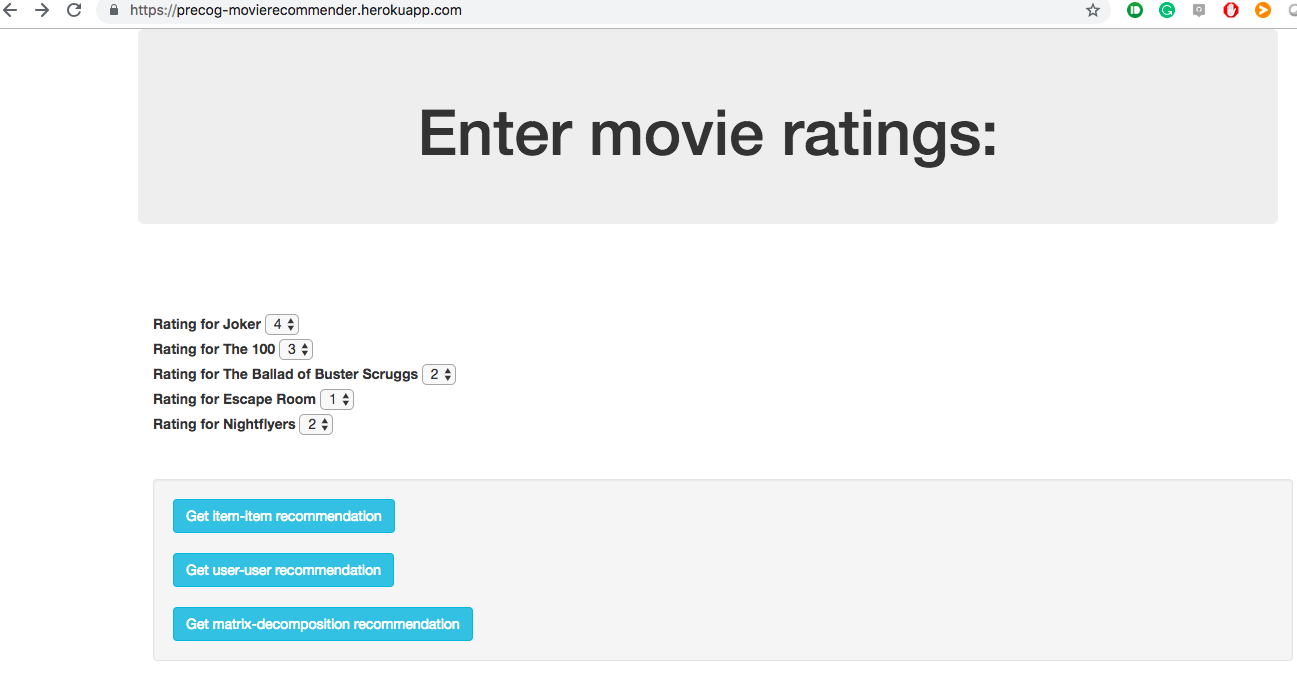
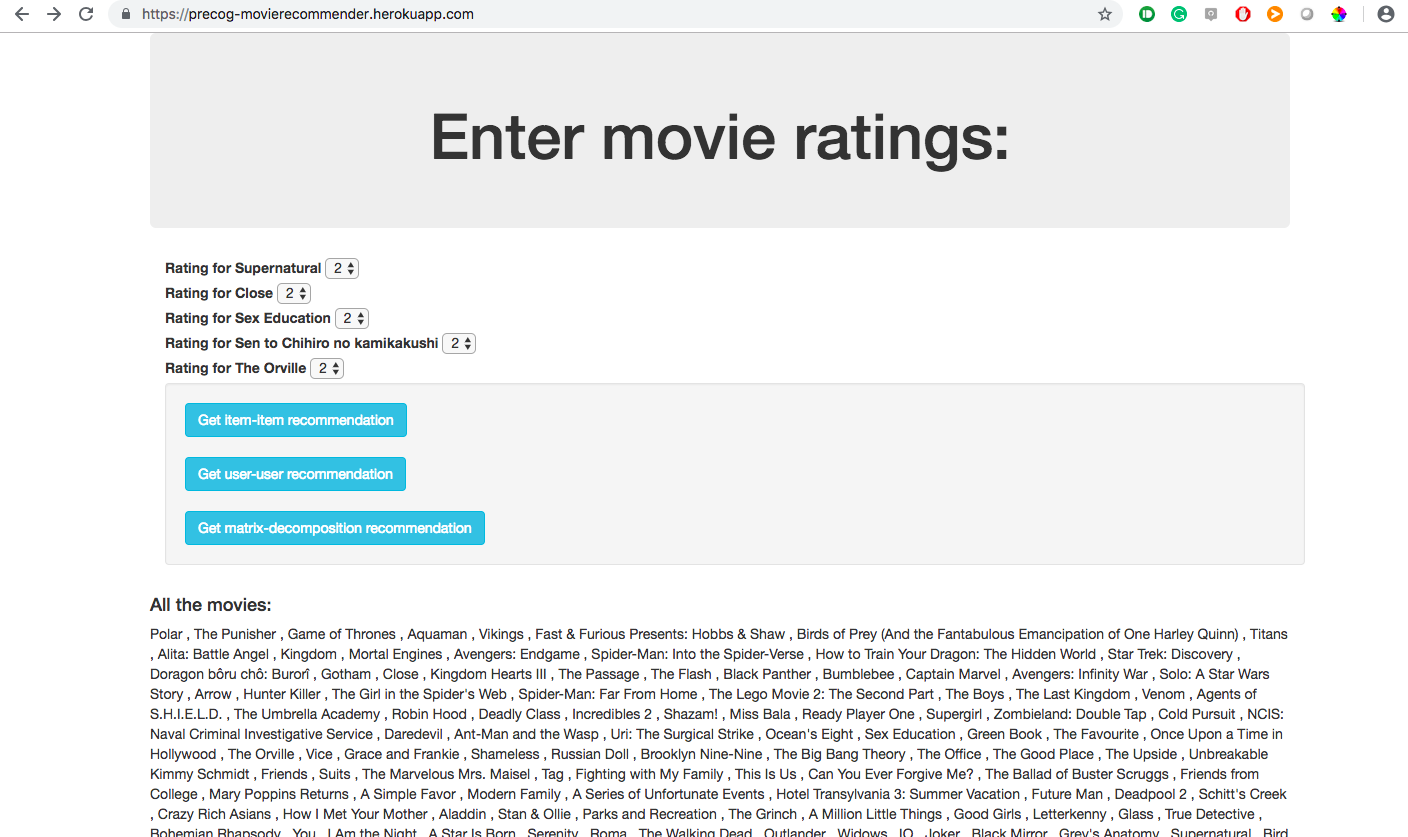
a

diff --git a/templates/index.html b/templates/index.html
@@ -14,13 +14,8 @@
     <div class="jumbotron text-center">
       <h1>Enter movie ratings: </h1>
     </div>
-
-    <br><br>
-
     <form class = "container" method="POST">
         <div class="form-group">
-
-        <br>
         <label for="rating1">Rating for {{pred1}}</label>
         <select id="rating1" name="rating1">
           <option value=1>1</option>
@@ -81,8 +76,6 @@
           <option value={{name5}} selected="selected">name5</option>
         </select>
           <br>
-          <br>
-          <br>
           <div class = "well">
         <input class="btn btn-info" type="submit" formaction="/get-user-data-item" value="Get item-item recommendation">
         <br>
@@ -94,6 +87,15 @@
         </div>
         </div>
         </form>
+        <div>
+            <h4> All the movies: </h4>
+              <p>
+                {% for movie in movies %}
+                  {{ movie }} ,
+                {% endfor %}
+            </p>
+
+        </div>
   </div>
 </body>
 

diff --git a/app.py b/app.py
@@ -20,13 +20,14 @@ user_rating = pd.read_csv('User_rating.csv')
 
 @app.route("/",methods=['GET'])
 def index():
+    movies = list(movies_data['Name'])
     a[:] = []
     movieids[:] = []
     for i in range(0,5):
         movieid = randint(1,193)
         movieids.append(movieid)
         a.append(movies_data.loc[movies_data['MovieID'] == movieid,['Name']].iloc[0]['Name'])
-    return render_template("index.html",pred1 = a[0],pred2 = a[1],pred3 = a[2],pred4= a[3],pred5= a[4],name1 = movieids[0],name2 = movieids[1],name3 = movieids[2],name4 = movieids[3],name5 = movieids[4])
+    return render_template("index.html",movies = movies,pred1 = a[0],pred2 = a[1],pred3 = a[2],pred4= a[3],pred5= a[4],name1 = movieids[0],name2 = movieids[1],name3 = movieids[2],name4 = movieids[3],name5 = movieids[4])
 
 @app.route('/get-user-data-item', methods=['POST'])
 def predict_stuff_user():
